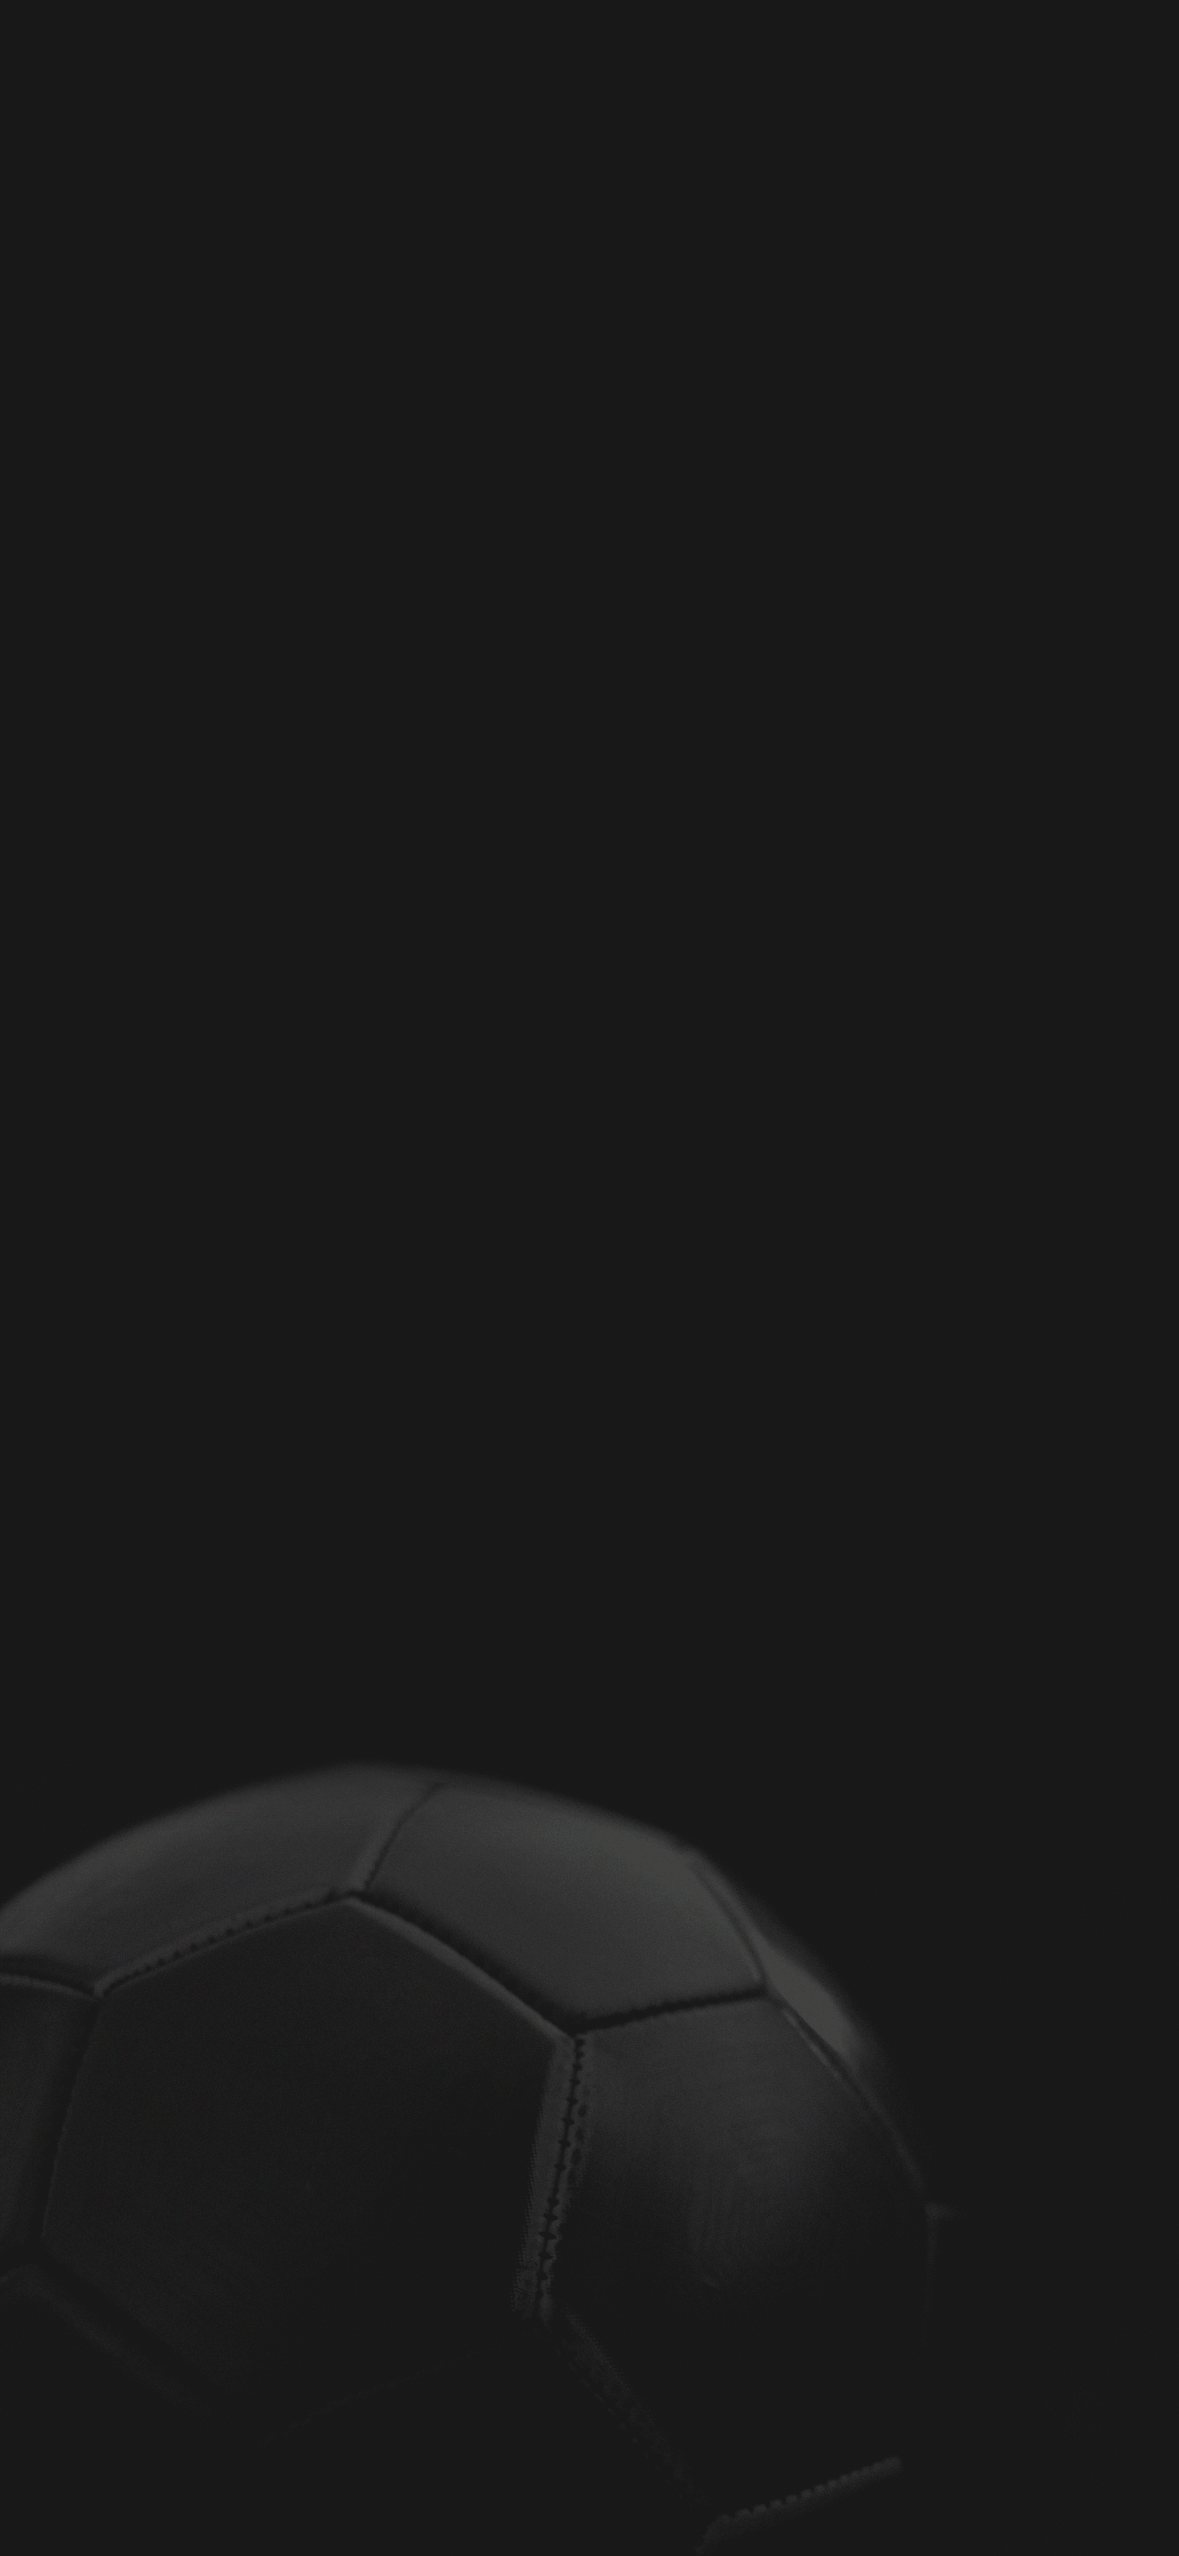
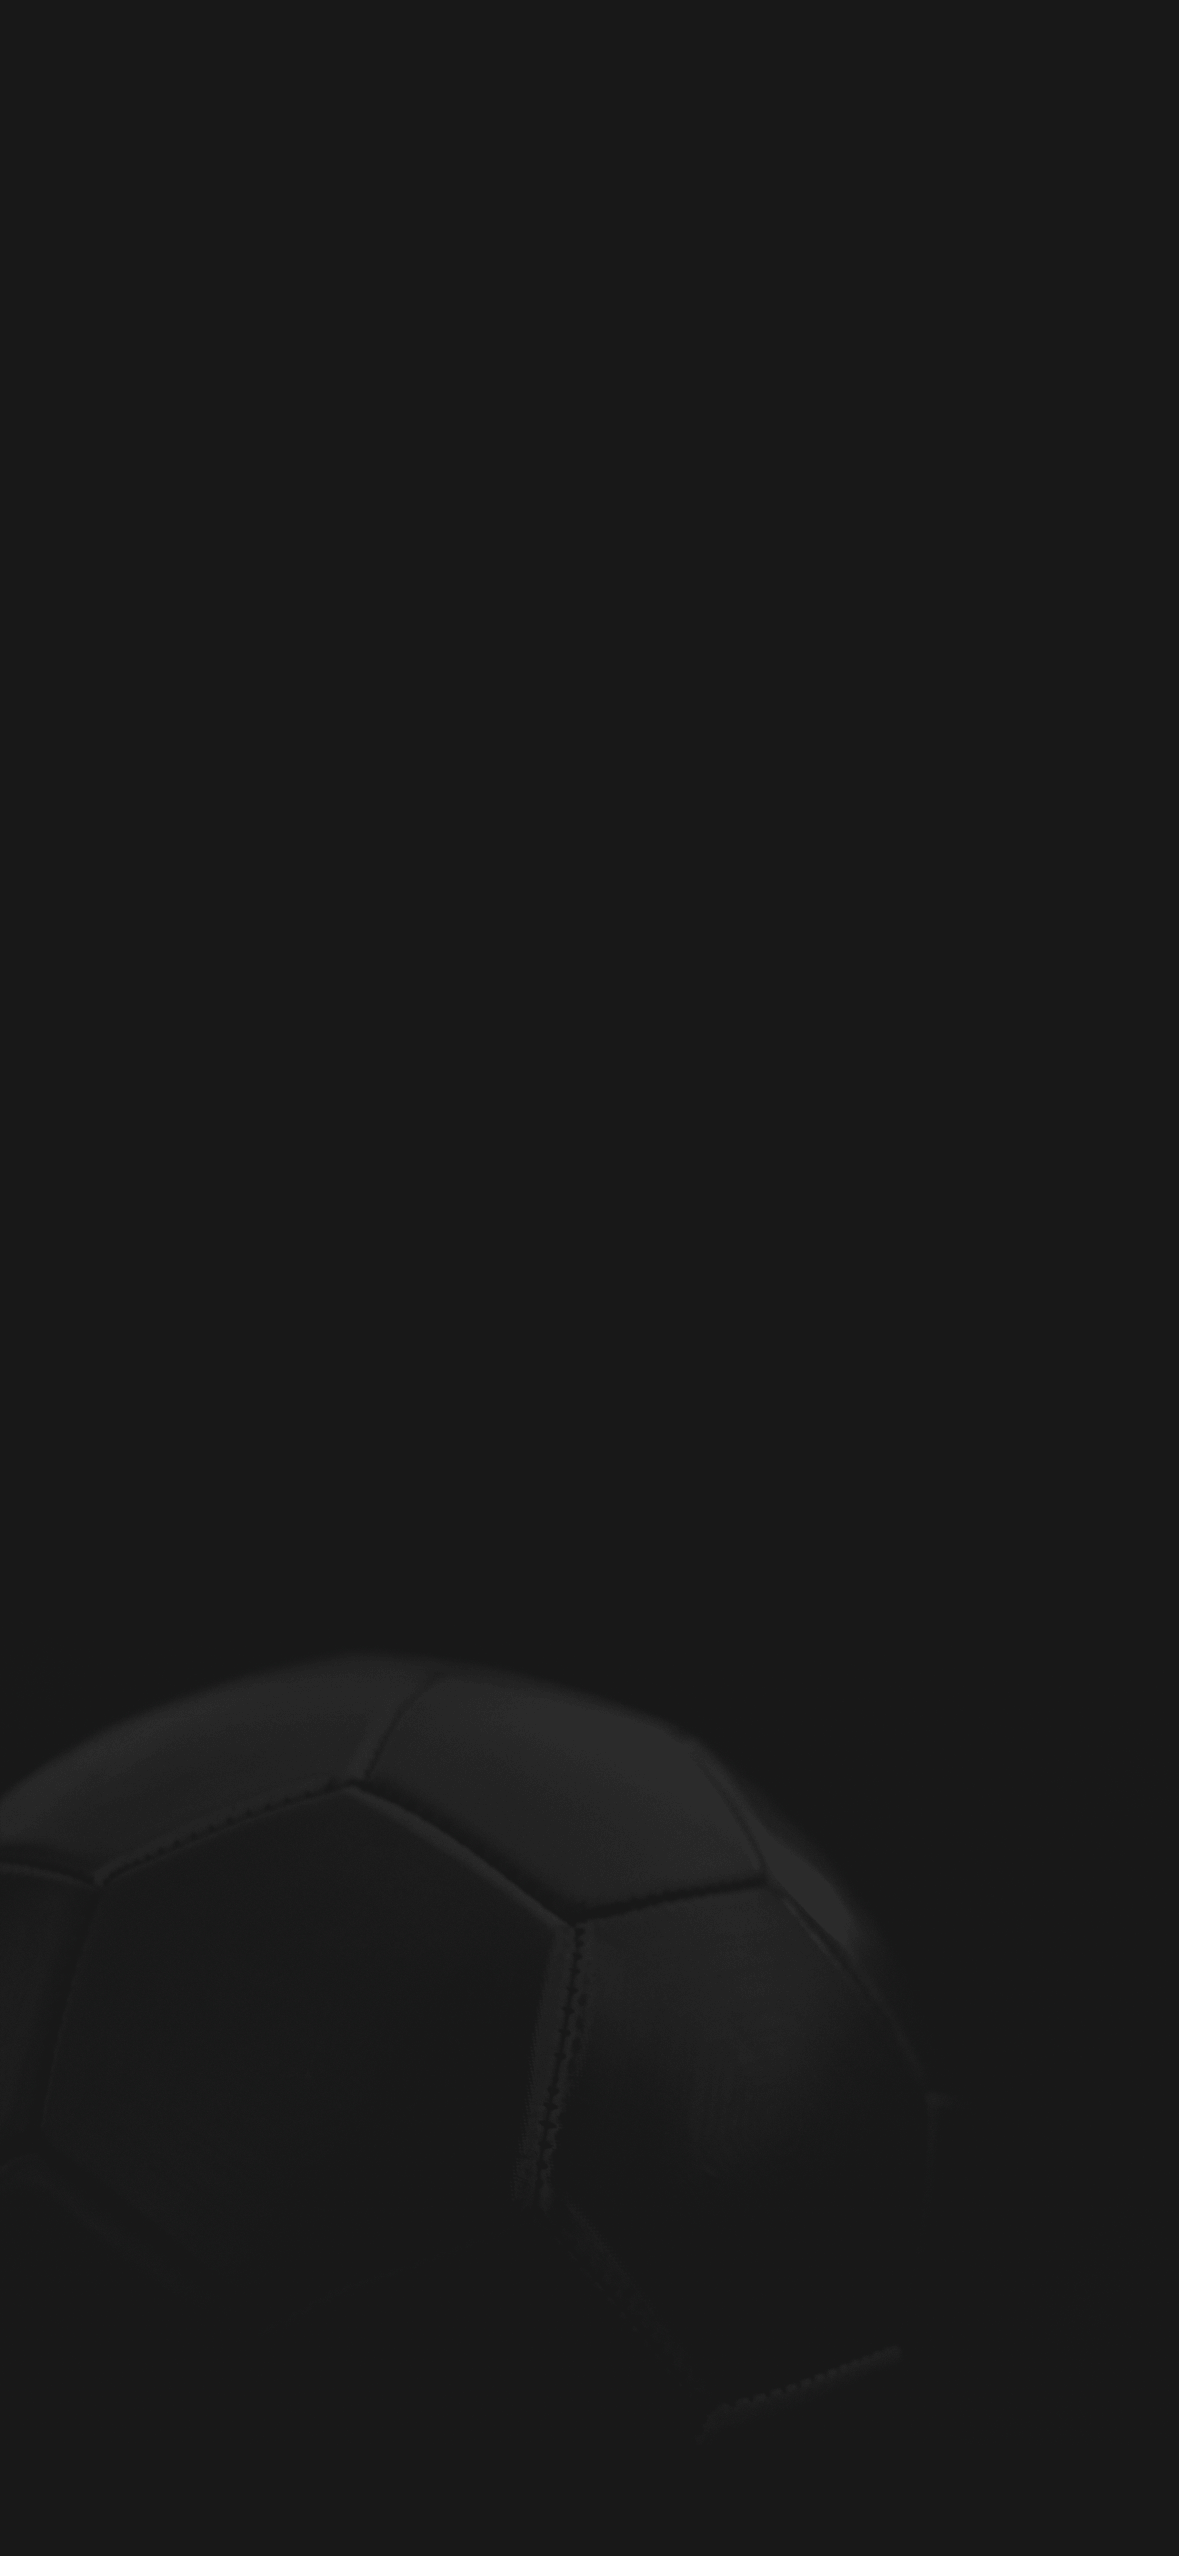
chore: revert team screens to default background image

Changed region(s): [[0.3359, 0.7109, 0.7328, 0.8036], [0.0, 0.68, 0.3664, 0.7727], [0.3969, 0.7727, 0.458, 0.8036]]

diff --git a/src/screens/teams/TeamDetailScreen.tsx b/src/screens/teams/TeamDetailScreen.tsx
@@ -58,7 +58,7 @@ export default function TeamDetailScreen({ route, navigation }: Props) {
 
   if (!team) {
     return (
-      <ScreenBackground variant="player">
+      <ScreenBackground>
         <View style={styles.centred}>
           <Text style={styles.missingText}>Team not found.</Text>
         </View>
@@ -113,7 +113,7 @@ export default function TeamDetailScreen({ route, navigation }: Props) {
   );
 
   return (
-    <ScreenBackground variant="player">
+    <ScreenBackground>
       <View style={styles.container}>
         <FlatList
           data={team.players}

diff --git a/src/screens/teams/AddPlayerModal.tsx b/src/screens/teams/AddPlayerModal.tsx
@@ -46,7 +46,7 @@ export default function AddPlayerModal({ teamId, visible, onClose }: Props) {
 
   return (
     <Modal visible={visible} animationType="slide" presentationStyle="pageSheet">
-      <ScreenBackground variant="player">
+      <ScreenBackground>
         <View style={styles.header}>
           <TouchableOpacity
             onPress={resetAndClose}

diff --git a/src/screens/teams/CreateTeamModal.tsx b/src/screens/teams/CreateTeamModal.tsx
@@ -47,7 +47,7 @@ export default function CreateTeamModal({ visible, onClose }: Props) {
 
   return (
     <Modal visible={visible} animationType="slide" presentationStyle="pageSheet">
-      <ScreenBackground variant="player">
+      <ScreenBackground>
         <View style={styles.header}>
           <TouchableOpacity
             onPress={handleClose}

diff --git a/src/screens/teams/TeamsListScreen.tsx b/src/screens/teams/TeamsListScreen.tsx
@@ -36,7 +36,7 @@ export default function TeamsListScreen({ navigation }: Props) {
   );
 
   return (
-    <ScreenBackground variant="player">
+    <ScreenBackground>
       <View style={styles.container}>
         <FlatList
           data={teams}